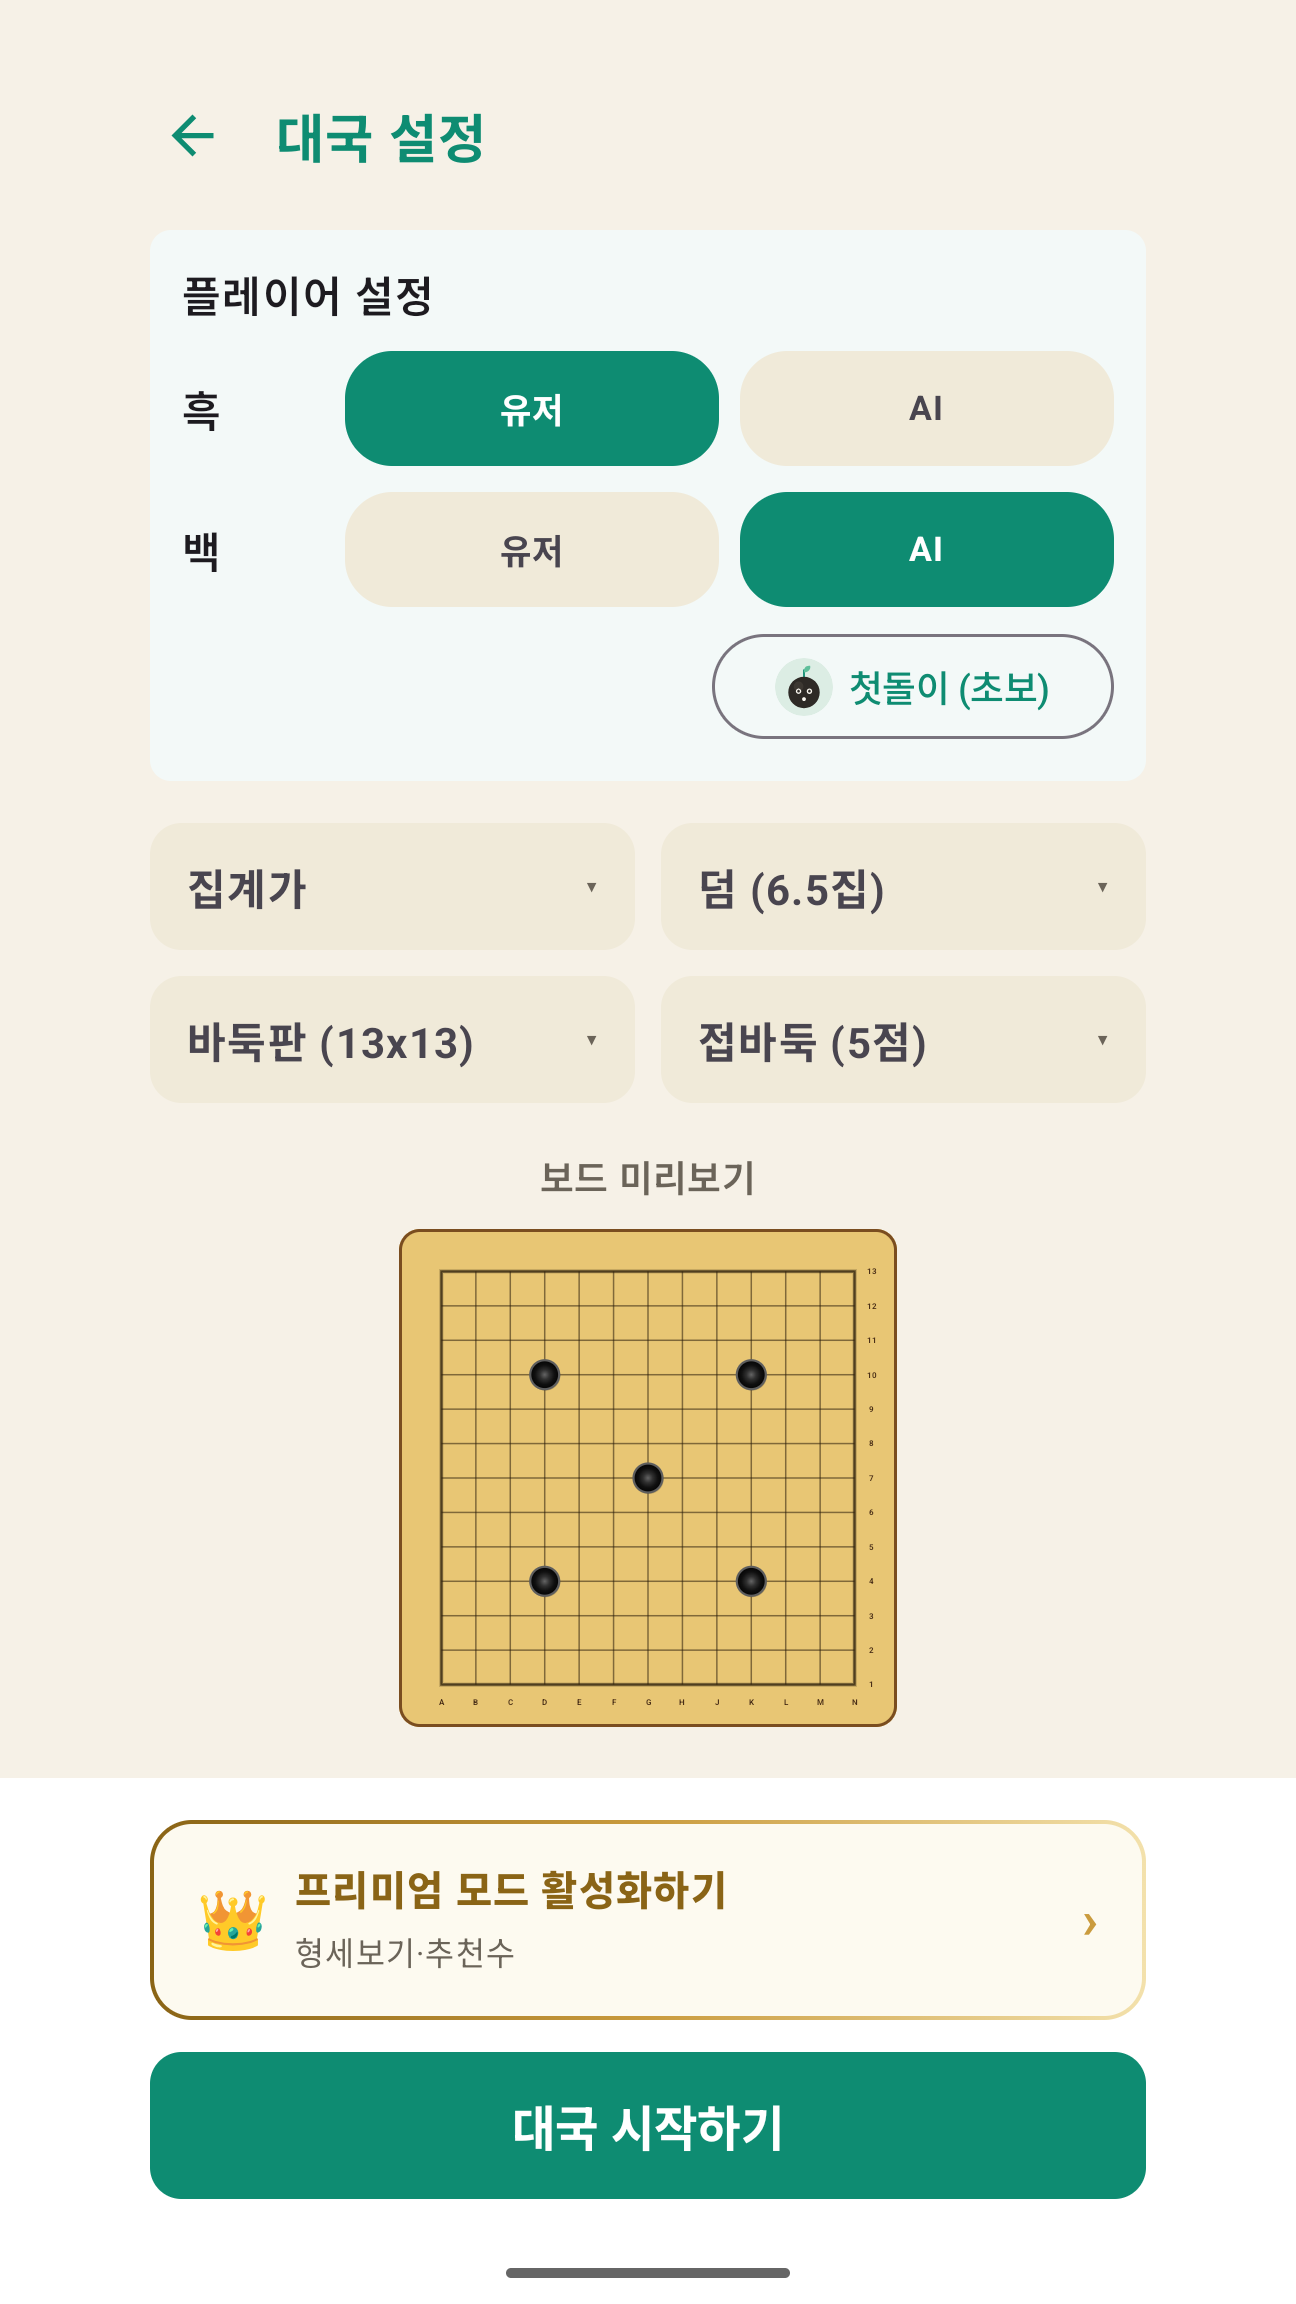
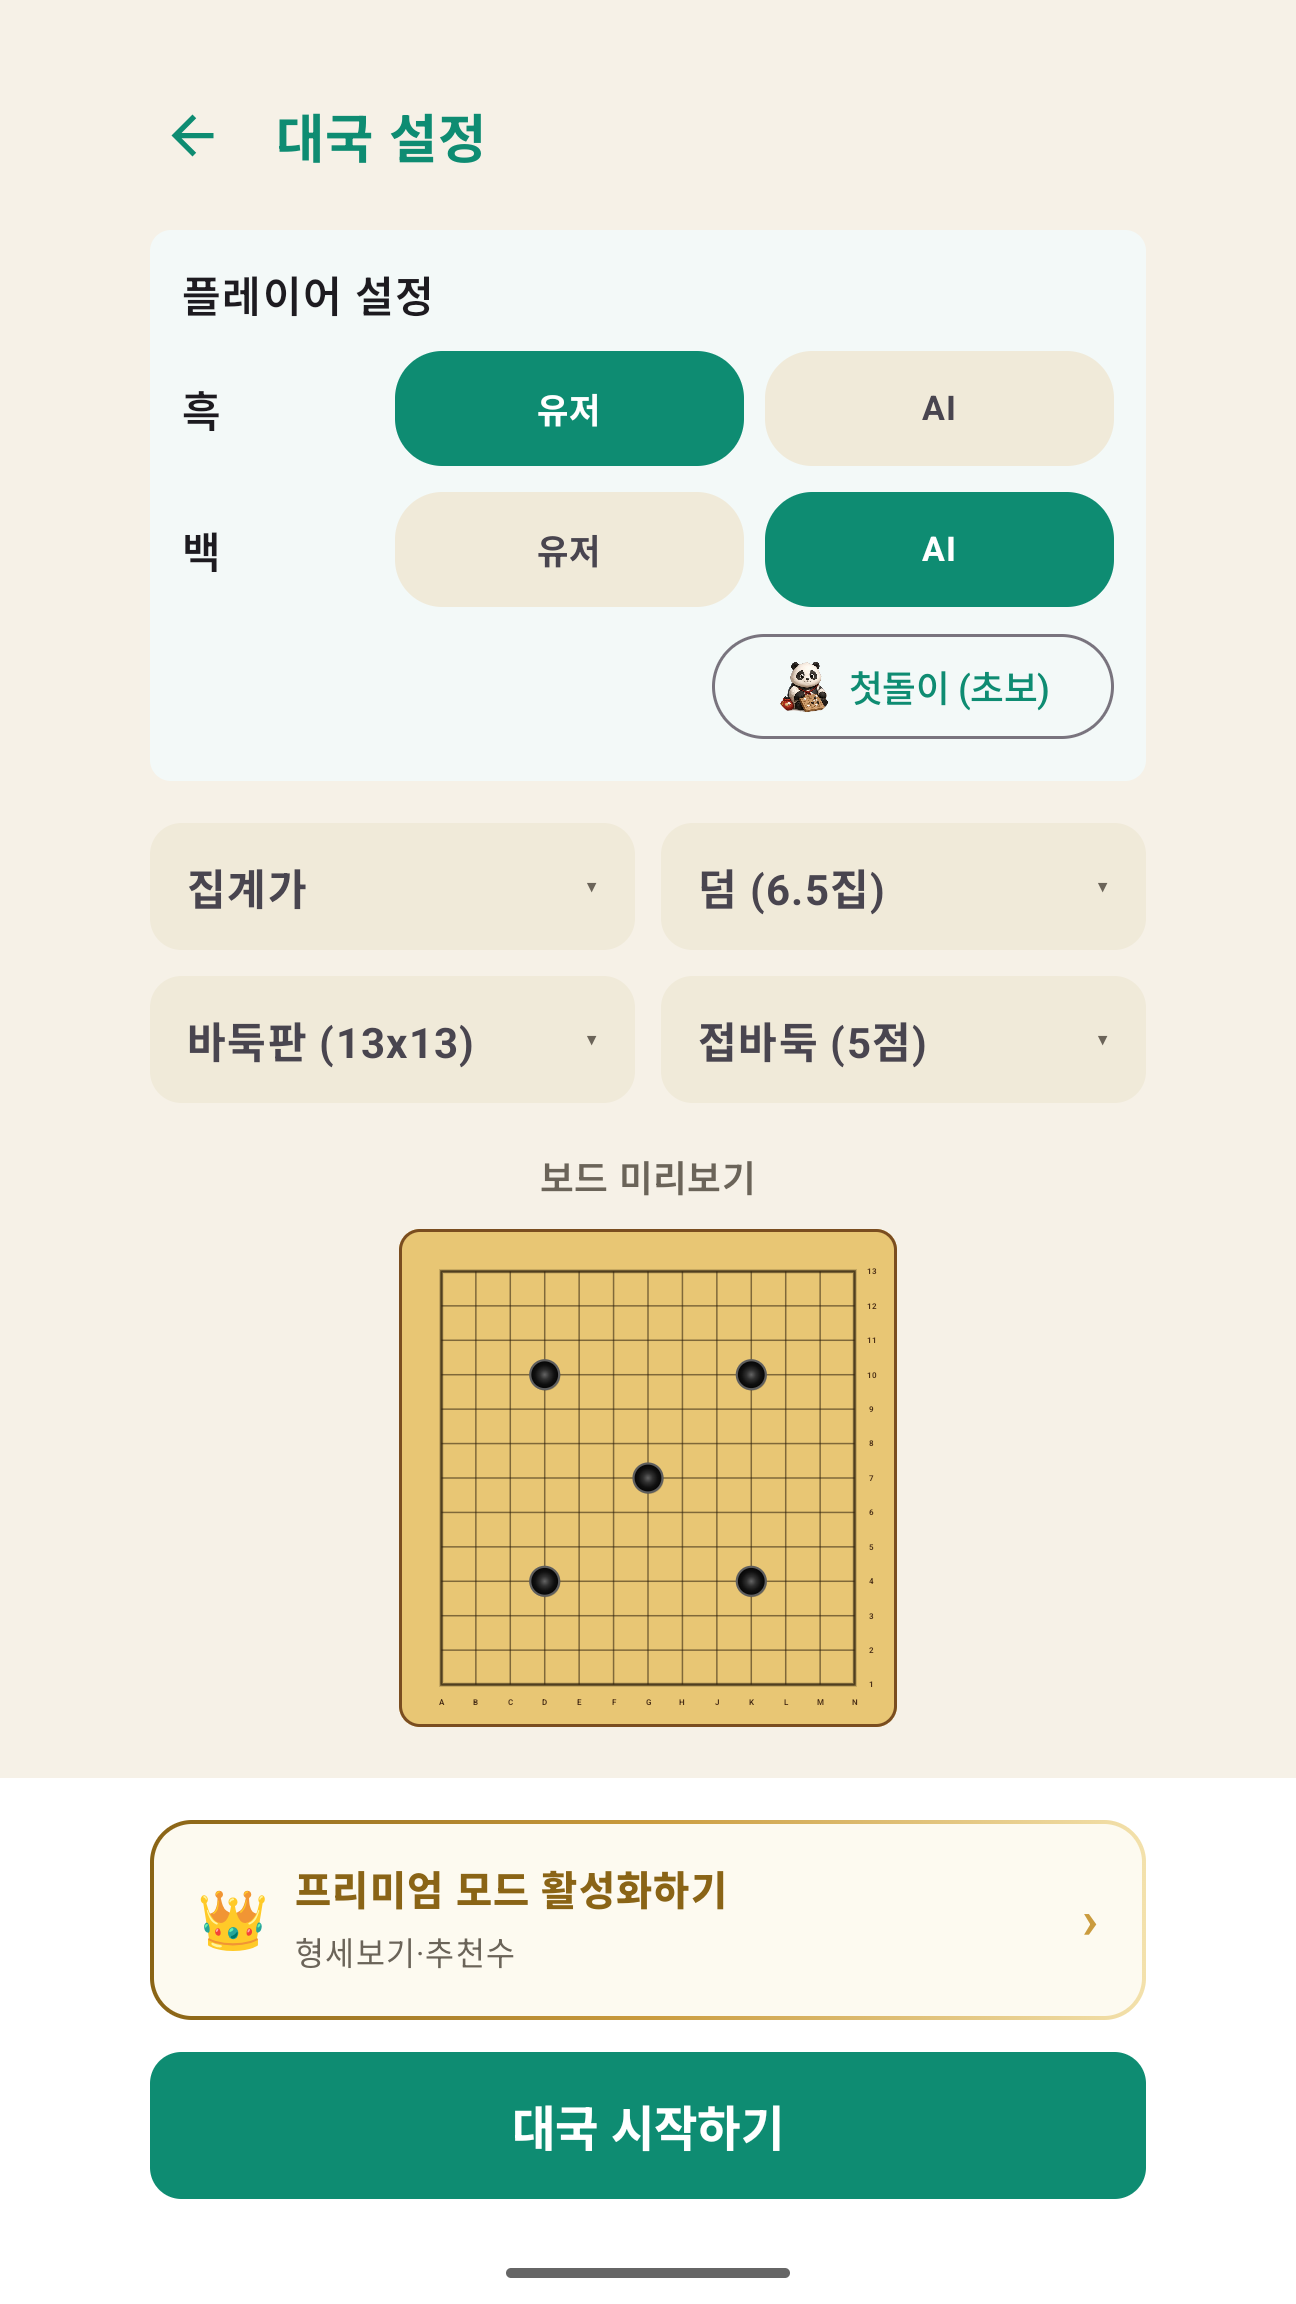
assets: recapture the three store cuts the renames aged (launch plan B-2)
01_home had "Go AI Coach" printed inside it, which #97 replaced. 05 showed
the hand-drawn avatars that #86 replaced. Both were known.

02_setup_lobby was not. It was captured only to validate the conversion,
and diffing it against the committed file showed the lobby draws a bot
avatar too — so #86 aged three cuts, not two. Checked the rest rather than
guessing: BotCharacterAvatar has four call sites, of which the lobby and
the picker are the only ones any store cut shows; 03 and 04 do not use it,
and 06 already carried the new name.

That validation is worth keeping: capturing 02 with the same procedure
reproduced the committed file exactly apart from the avatar — padding,
header, board and buttons pixel-identical. So the conversion is the
original one, not an approximation of it.

The format was reverse-engineered from the committed images rather than
guessed: crop 96px of status bar (1080x2400 → 1080x2304, exactly 9:16),
then pad 108px each side by stretching the image's own edge columns, RGB.
The README's "104px" was close but would have produced 2296.

All four copies updated — the export folder plus the three dist trees —
and verified byte-identical by sha256. Changes are localised: 1.29%, 0.99%
and 1.61% of pixels.

diff --git a/docs/work/plans/GOOGLE_PLAY_LAUNCH_PLAN.md b/docs/work/plans/GOOGLE_PLAY_LAUNCH_PLAN.md
@@ -56,7 +56,7 @@
 | # | 항목 | 상태 | 근거 / 방법 |
 | --- | --- | --- | --- |
 | B-1 | **AAB 재빌드** | ✅ **완료(2026-09-06 재빌드)** | `dist/go-ai-coach-release.aab` = **v0.8.11 / VERSION_CODE=811**, 108MB, sha256 `699d267468ad…`, HEAD `30ed7ac`. `make bundle-aab`(release 빌드타입), 릴리스 키스토어 서명 확인(`jar verified`). ⚠ **직전 810은 폐기다** — 2026-09-01 이후 앱 코드를 건드린 커밋이 20건 넘는다(#86 캐릭터 원화·#89 동의 배너·#90 광고키 게이트·#101 랜딩·#103·#106~#113). 번들에서 확인한 것: katago 에셋 3개 · **네이티브는 `arm64-v8a` 하나뿐**(#91 ⓐ `abiFilters`가 동작한다) · 새 캐릭터 **webp 5장** · `proguard.map`+`r8.json`+`libkatago.so.sym` 동봉(#47 콘솔 경고 해소). #89 동의 코드도 dex에 실렸다 — `UserMessagingPlatform`·`ConsentInformation` 참조와 **4개 언어 동의 문구 전부**. ⚠ **`strings | grep`으로 세지 말 것**(#47이 확인한 오탐) — dex 원본 바이트로 셌다. 메서드명이 0건인 것은 R8 난독화라 정상이다 |
-| B-2 | **스크린샷 재캡처** | ⚠ **`01` 재캡처 필요(2026-09-05)** · 나머지 다섯은 완료 | 새 정본은 `design-handoff/export/2026-09-01-play-store-listing-and-screenshots/`다 — **여섯 장**(`02`~`05` 재캡처 + `06_landing` 신규, `01`은 내용 동일 확인). 빌드 `v260831.2334`, **`05`만 `v260901.1649`(HEAD `219a52c`)**. ⚠ **`02`·`03`·`04`는 접바둑 5점으로 찍었다**(호선이 아니다) — 호선으로는 21수에서 `흑 0% · 백 100%`가 되어 스토어 첫인상이 "당신은 크게 집니다"가 된다. 사유와 되돌리는 방법은 그 폴더 README의 "판단한 것 둘". ✅ **#64가 실제로 그 문구를 바꿔(`d89aebb`) `05`만 다시 찍었다** — 새 힌트는 `조각 7개 남았어요` / `광고를 보면 1개씩 모여요` 두 줄이다. 예정했던 순서(**#64 → B-1 → B-2(05)**)를 그대로 밟았다. 나머지 다섯 컷은 손대지 않았고, 새 `05`와 옛 `05`의 픽셀 차이는 **힌트 두 줄뿐**이다(`x 414–881, y 1242–1316`). ⚠ **재현하려면 시드에 한 줄이 더 필요하다** — #63 이후로는 `go_ai_coach_release_reset`에 `applied_generation=1`을 같이 심어야 초기화가 심은 값을 지우지 않는다(그 폴더 README의 "캡처 조건") | ⚠ **2026-09-05: `01_home.png`이 낡았다** — 이미지 안에 큰 글씨로 **`Go AI Coach`** 가 박혀 있는데, #97이 앱 이름을 스토어와 같은 **`바둑 AI`** 로 바꿨다(`9b456c4`). 지금 올리면 **등록정보의 이름과 스크린샷의 이름이 서로 다르다** — #87과 같은 종류의 어긋남이다. ⚠ **같은 바이트가 네 곳에 복제돼 있다**: `dist/play-store-assets/{phone,tablet_7in,tablet_10in}_screenshots/` 3곳 + export 폴더 1곳. 재캡처하면 **네 곳을 모두 갱신**할 것. 캡처 조건은 그 폴더 README(⚠ `font_scale` 1.0, `release_reset` 시드 포함).<br>⚠ **2026-09-06: `05_character_picker.png`도 낡았다** — #86이 캐릭터 5종을 손으로 작도한 벡터에서 사용자 제공 원화로 갈아 끼웠는데, 그 컷에는 **옛 벡터 아바타**가 찍혀 있다. `01`과 함께 다시 찍을 것.<br>⚠ **둘 다 출시를 막지 않는다** — 스크린샷은 A-6(등록정보)이라 **AAB와 분리돼 콘솔에서 언제든 교체**할 수 있다(재빌드 불필요). 다만 `01`은 스토어 이름과 어긋나므로 등록정보를 공개하기 전에는 고칠 것.
+| B-2 | **스크린샷 재캡처** | ✅ **완료(2026-09-06)** | 새 정본은 `design-handoff/export/2026-09-01-play-store-listing-and-screenshots/`다 — **여섯 장**(`02`~`05` 재캡처 + `06_landing` 신규, `01`은 내용 동일 확인). 빌드 `v260831.2334`, **`05`만 `v260901.1649`(HEAD `219a52c`)**. ⚠ **`02`·`03`·`04`는 접바둑 5점으로 찍었다**(호선이 아니다) — 호선으로는 21수에서 `흑 0% · 백 100%`가 되어 스토어 첫인상이 "당신은 크게 집니다"가 된다. 사유와 되돌리는 방법은 그 폴더 README의 "판단한 것 둘". ✅ **#64가 실제로 그 문구를 바꿔(`d89aebb`) `05`만 다시 찍었다** — 새 힌트는 `조각 7개 남았어요` / `광고를 보면 1개씩 모여요` 두 줄이다. 예정했던 순서(**#64 → B-1 → B-2(05)**)를 그대로 밟았다. 나머지 다섯 컷은 손대지 않았고, 새 `05`와 옛 `05`의 픽셀 차이는 **힌트 두 줄뿐**이다(`x 414–881, y 1242–1316`). ⚠ **재현하려면 시드에 한 줄이 더 필요하다** — #63 이후로는 `go_ai_coach_release_reset`에 `applied_generation=1`을 같이 심어야 초기화가 심은 값을 지우지 않는다(그 폴더 README의 "캡처 조건") | ⚠ **2026-09-05: `01_home.png`이 낡았다** — 이미지 안에 큰 글씨로 **`Go AI Coach`** 가 박혀 있는데, #97이 앱 이름을 스토어와 같은 **`바둑 AI`** 로 바꿨다(`9b456c4`). 지금 올리면 **등록정보의 이름과 스크린샷의 이름이 서로 다르다** — #87과 같은 종류의 어긋남이다. ⚠ **같은 바이트가 네 곳에 복제돼 있다**: `dist/play-store-assets/{phone,tablet_7in,tablet_10in}_screenshots/` 3곳 + export 폴더 1곳. 재캡처하면 **네 곳을 모두 갱신**할 것. 캡처 조건은 그 폴더 README(⚠ `font_scale` 1.0, `release_reset` 시드 포함).<br>✅ **2026-09-06에 `01`·`02`·`05` 세 장을 다시 찍어 네 곳 모두 갱신했다**(export 1 + dist 3). ⚠ **`02`는 이 항목이 몰랐던 세 번째였다** — #86의 원화 교체가 로비 아바타에도 나온다. `03`·`04`는 아바타를 안 써서 영향이 없고 `06`은 이미 새 이름이었다. 변환 규격과 `02`로 한 검증은 그 폴더 README의 「2026-09-06 재캡처」 절에 있다.
 | B-3 | **`release` 빌드타입을 실기에서 한 판** | ✅ **완료(2026-09-01) — 단 808에서** | v0.8.8/808 APK(릴리스 키스토어 서명, `CN=zenit9hub`)를 에뮬레이터에 **신규 설치**해 기동 → 랜딩 → 설정 저장 → 출석 수령 → 엔진 기동·AI 착수 → 사용자 착수 → 1회권 소모(30→29) → **콜드 재시작 후 복원**까지 밟았다. `FATAL`/`ClassNotFound`/`NoSuchMethod`/`NoClassDefFound` **0건**. ⚠ **광고만 일부러 안 밟았다** — 아래 상세. ⚠ **808 이후 #63·#64가 들어왔으므로 올릴 810과는 같은 소스가 아니다** — 다시 밟을지 여부는 아래 상세 끝의 판단 항목 |
 | B-4 | `store_listing.txt`의 "앱 내 결제 없음" | ⏸ 보류가 맞다 | 2026-08-31 확인: `isLoginEnabled`·`isPurchaseEnabled`·`isBotCharacterPurchaseEnabled` **셋 다 `false`** 라 그 문장은 **지금 참이다.** ⚠ #18·#26을 켜는 **배포 시점에** 바꾼다 — 미리 바꾸면 스토어가 거짓말을 하고, 잊으면 정책 위반이 된다 |
 

diff --git a/design-handoff/export/2026-09-01-play-store-listing-and-screenshots/README.md b/design-handoff/export/2026-09-01-play-store-listing-and-screenshots/README.md
@@ -99,6 +99,33 @@
 커밋된 파일과 **차이가 0**(`getbbox() → None`)이라, 재캡처 환경이 00:09 세션과 동등함도 함께
 확인됐다. 정면 카드(4단계 사범 묘수)도 그대로 두었다 — 위 판단 ⓑ가 그대로 유효하다.
 
+## 2026-09-06 재캡처 — `01`·`02`·`05` 세 장
+
+**세 장을 다시 찍었다. 나머지 셋(`03`·`04`·`06`)은 손대지 않았다.**
+
+| 컷 | 왜 낡았나 | 바뀐 픽셀 |
+| --- | --- | --- |
+| `01_home` | 이미지 안에 **`Go AI Coach`** 가 박혀 있었다 — #97이 이름을 `바둑 AI`로 바꿨다 | 1.29% |
+| `02_setup_lobby` | **#86의 캐릭터 원화 교체가 로비 아바타에도 나온다** — 항목에 없던 세 번째다 | 0.99% |
+| `05_character_picker` | 같은 이유. 픽커 카드가 옛 벡터를 보여주고 있었다 | 1.61% |
+
+⚠ **`02`가 낡은 것은 이번에 처음 드러났다.** `01`·`05`만 재캡처 대상으로 알려져 있었는데,
+`02`를 **변환 검증용으로** 같이 찍어 커밋본과 diff 하다가 아바타가 다른 것을 발견했다.
+· `BotCharacterAvatar`를 그리는 화면은 넷이고(`PlayerSetupPanel`·`BotCharacterUiState`·
+  `BotCharacterAcquiredDialog`·`AttendanceBoardView`) 그중 스토어 컷에 나오는 것은 **`02`와 `05`**다.
+· **`03`·`04`는 아바타를 쓰지 않아 영향이 없다**(대국 화면 헤더에 호출부가 없다 — 확인함).
+· `06`은 이미 `바둑 AI`를 쓰고 있었다.
+
+✅ **변환이 옳다는 것을 `02`가 증명했다** — 같은 절차로 찍어 커밋본과 비교하니 **차이가 아바타
+영역 하나뿐**이고 패딩·헤더·보드·버튼이 **픽셀 단위로 동일**했다. 아래 규격을 그대로 재현한 것이다.
+
+**변환 규격**(커밋된 컷에서 역산): 상단 **96px** 제거(1080x2400 → 1080x2304 = 정확히 9:16) →
+좌우 **108px씩 가장자리 열을 늘려** 패딩 → 1296x2304 · RGB. 스크립트는
+`scratchpad`에만 두고 커밋하지 않았다(30줄이고 이 문단으로 재현된다).
+
+⚠ **네 곳을 모두 갱신했다** — `export/` 1곳 + `dist/play-store-assets/{phone,tablet_7in,tablet_10in}_screenshots/`
+3곳. sha256이 넷 다 같은지 확인했다.
+
 ## 캡처 조건 (재현용)
 
 에뮬레이터 **Pixel 7 / API 35, 1080x2400, density 420**, 앱 언어 한국어, 빌드 태그
